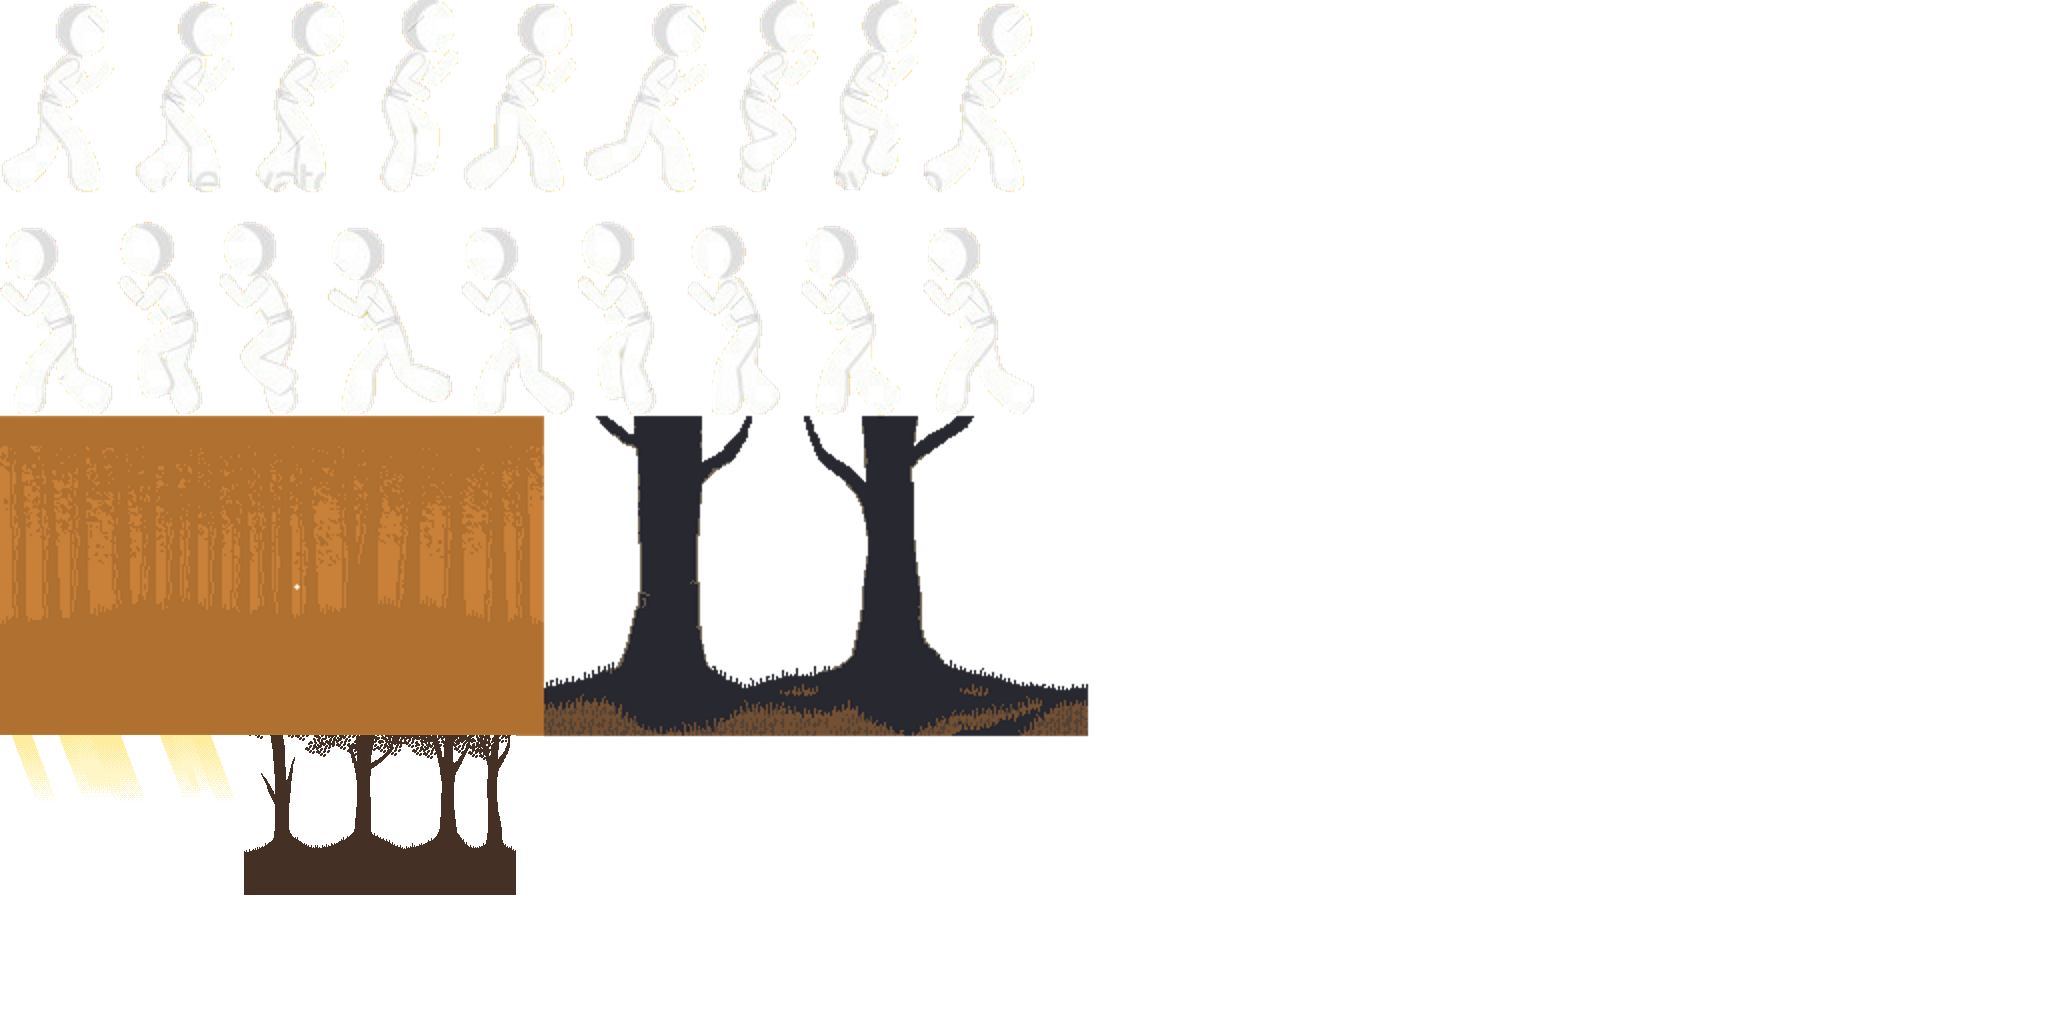
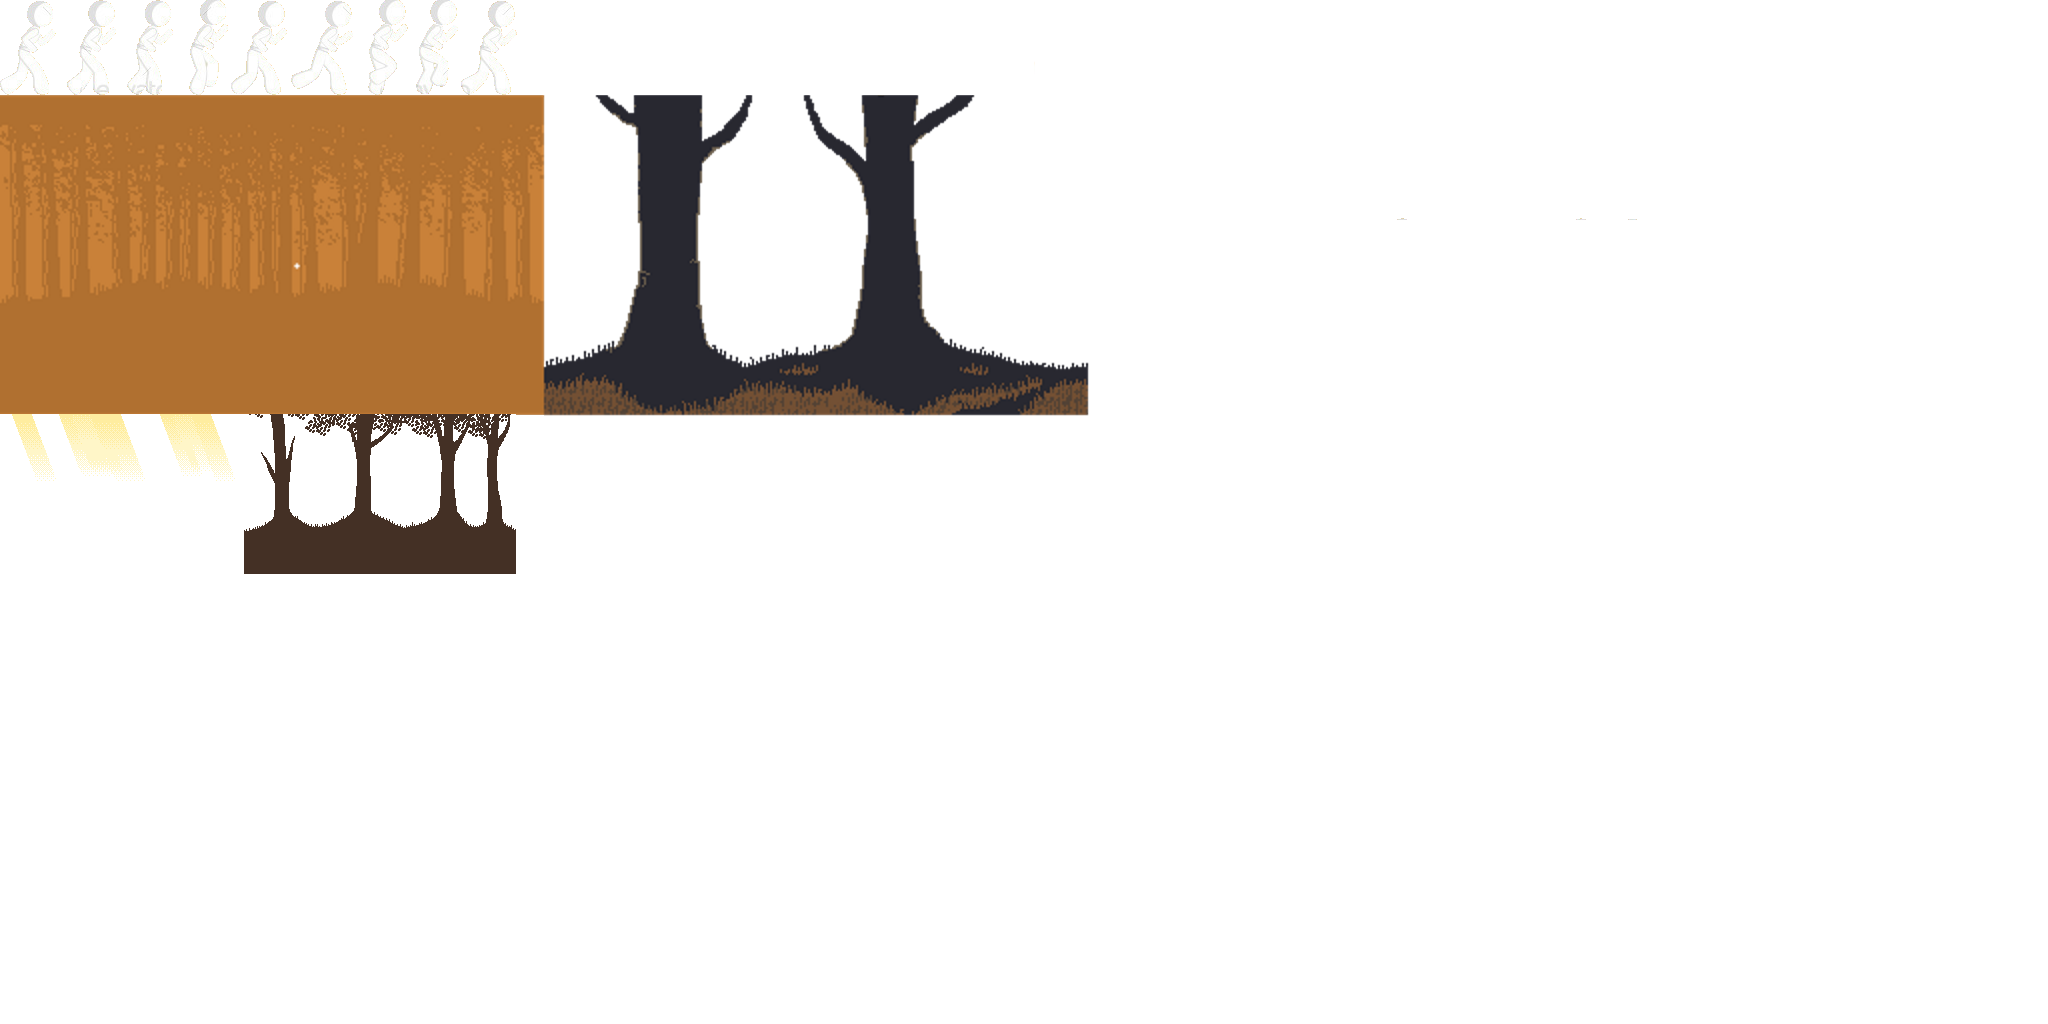
Changes made on resources.png

Changed region(s): [[0.0, 0.0, 0.5312, 0.875], [0.4688, 0.0, 0.5, 0.0625]]

diff --git a/Sprite.cpp b/Sprite.cpp
@@ -20,9 +20,17 @@ Sprite::Sprite()
 	this->hr = D3DXCreateTextureFromFile(GraphicHandler::getInstance()->getD3dDevice(), "middletree.png", &texture3);
 	this->hr = D3DXCreateTextureFromFile(GraphicHandler::getInstance()->getD3dDevice(), "light.png", &texture4);
 
-	for (int i = 0; i < 4; i++)
+
+	int x = 0;
+	for (int r = 0; r < 2; r++)
 	{
-		drawPosition[i] = { 0,0,0 };
+
+		for (int c = 0; c < 4; c++)
+		{
+			drawPosition[r][c] = { x,0,0 };
+		}
+
+		x = 1080;
 	}
 
 }
@@ -61,10 +69,12 @@ void Sprite::update()
 	{
 		isCharMove = true;
 
-		for (int i = 0; i < 4; i++)
+		for (int x = 0; x < 2; x++)
 		{
-			
-			drawPosition[i].x -= i + 1;
+			for (int y = 0; y < 4; y++)
+			{
+				drawPosition[x][y].x -= y + 1;
+			}
 		}
 	}
 }
@@ -76,11 +86,20 @@ void Sprite::drawSprite()
 	sprite->Begin(D3DXSPRITE_ALPHABLEND);
 
 	//background render
+	//D3DXMatrixTransformation2D(&matrix, NULL, 0.0, &scaling, NULL, 0, &characterPos);
+	//sprite->SetTransform(&matrix);
+	//for (int i = 0; i < array.size; i++)
+	
 
-	sprite->Draw(texture, &backgroundRect, NULL, &drawPosition[0], D3DCOLOR_XRGB(255, 255, 255));
-	sprite->Draw(texture4, &backgroundRect, NULL, &drawPosition[1], D3DCOLOR_XRGB(255, 255, 255));
-	sprite->Draw(texture3, &backgroundRect, NULL, &drawPosition[2], D3DCOLOR_XRGB(255, 255, 255));
-	sprite->Draw(texture2, &backgroundRect, NULL, &drawPosition[3], D3DCOLOR_XRGB(255, 255, 255));
+	sprite->Draw(texture, &backgroundRect, NULL, &drawPosition[0][0], D3DCOLOR_XRGB(255, 255, 255));
+	sprite->Draw(texture4, &backgroundRect, NULL, &drawPosition[0][1], D3DCOLOR_XRGB(255, 255, 255));
+	sprite->Draw(texture3, &backgroundRect, NULL, &drawPosition[0][2], D3DCOLOR_XRGB(255, 255, 255));
+	sprite->Draw(texture2, &backgroundRect, NULL, &drawPosition[0][3], D3DCOLOR_XRGB(255, 255, 255));
+
+	sprite->Draw(texture, &backgroundRect, NULL, &drawPosition[1][0], D3DCOLOR_XRGB(255, 255, 255));
+	sprite->Draw(texture4, &backgroundRect, NULL, &drawPosition[1][1], D3DCOLOR_XRGB(255, 255, 255));
+	sprite->Draw(texture3, &backgroundRect, NULL, &drawPosition[1][2], D3DCOLOR_XRGB(255, 255, 255));
+	sprite->Draw(texture2, &backgroundRect, NULL, &drawPosition[1][3], D3DCOLOR_XRGB(255, 255, 255));
 
 	//	Sprite rendering. Study the documentation.
 	//sprite->Draw(texture, NULL, NULL, NULL, D3DCOLOR_XRGB(255, 255, 255));
@@ -109,6 +128,6 @@ void Sprite::release()
 	texture4 = NULL;
 
 	delete drawPosition;
-	delete backgroundRect;
+
 	
 }

diff --git a/Sprite.h b/Sprite.h
@@ -22,7 +22,7 @@ private:
 
 public:
 	Sprite();
-	D3DXVECTOR3 drawPosition[4];
+	D3DXVECTOR3 drawPosition[2][4];
 
 	static Sprite* getInstance();
 	static void releaseInstance();

diff --git a/main.cpp b/main.cpp
@@ -19,12 +19,13 @@ int main() {
 	
 	while (window->loop())
 	{
+
+
 		input->update();
 
 		Sprite::getInstance()->update();
 
 		graphic->draw();
-
 
 	}
 
